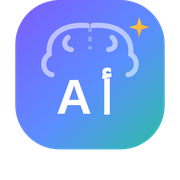
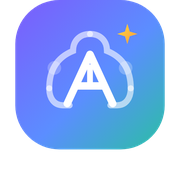
refine(brand): restore the original brain, nest أ inside the A
Per feedback: the original brain silhouette read better than the reworked
hemisphere arcs, and the monogram should place the Arabic أ *inside* the Latin
A (not beside it). Also fixes the app icon looking "incomplete" — the previous
letters sat at the bottom and got cropped in the small install-prompt render;
the monogram is now centered inside the brain, so it reads complete at every
size.

- AcademyLogo.tsx: original brain hemispheres + an outline A with أ nested in
  its triangle
- icon.svg + regenerated PNGs (192/512, maskable, apple-touch)
- opengraph-image.tsx: embeds the real logo as inline SVG (Satori-safe
  elements only)

Claude-Session: https://claude.ai/code/session_014JTUkKfyDEnv8Zh19PnRgp

Changed region(s): [[0.2222, 0.0833, 0.8333, 0.6389]]

diff --git a/components/shared/AcademyLogo.tsx b/components/shared/AcademyLogo.tsx
@@ -1,8 +1,7 @@
-// Amine Academy brand mark — a stylized brain (two hemispheres) with the
-// bilingual monogram «A» + «أ» set inside it, plus a spark accent. The Latin A
-// and Arabic alef together also read as "AI", nodding to the platform's
-// AI-driven sessions. Single source of truth: change it here and it updates
-// everywhere the component is used (landing, footer, parent portal, demo).
+// Amine Academy brand mark — the original stylized brain, with a bold outline
+// «A» in its center and the Arabic «أ» nested inside the A's triangle (bilingual
+// monogram). Single source of truth: change it here and it updates everywhere
+// the component is used (landing, footer, parent portal, demo, dashboard).
 export default function AcademyLogo({ size = 44 }: { size?: number }) {
   return (
     <svg width={size} height={size} viewBox="0 0 44 44" fill="none" xmlns="http://www.w3.org/2000/svg">
@@ -18,19 +17,22 @@ export default function AcademyLogo({ size = 44 }: { size?: number }) {
         </linearGradient>
       </defs>
       <rect width="44" height="44" rx="13" fill="url(#aaLogoBg)" />
-      {/* Brain hemispheres */}
-      <g stroke="rgba(255,255,255,0.5)" strokeWidth="1.5" fill="none" strokeLinecap="round">
-        <path d="M21.2 7.5 C13.5 7 9.5 10.5 10 16 C7.5 17.5 8 21.5 10.8 22" />
-        <path d="M22.8 7.5 C30.5 7 34.5 10.5 34 16 C36.5 17.5 36 21.5 33.2 22" />
-        <path d="M15.5 11 C13.8 12.5 14.6 14.5 16.5 14.6" />
-        <path d="M28.5 11 C30.2 12.5 29.4 14.5 27.5 14.6" />
+      {/* Brain hemispheres (the original design) */}
+      <path d="M10 26 C10 21 12 17 17 15 C17 12 19 10 22 10" stroke="rgba(255,255,255,0.6)" strokeWidth="1.8" strokeLinecap="round" fill="none" />
+      <path d="M10 26 C10 29 11.5 31 14 31 L16 31" stroke="rgba(255,255,255,0.6)" strokeWidth="1.8" strokeLinecap="round" fill="none" />
+      <circle cx="11.5" cy="20" r="2" fill="rgba(255,255,255,0.25)" />
+      <path d="M34 26 C34 21 32 17 27 15 C27 12 25 10 22 10" stroke="rgba(255,255,255,0.6)" strokeWidth="1.8" strokeLinecap="round" fill="none" />
+      <path d="M34 26 C34 29 32.5 31 30 31 L28 31" stroke="rgba(255,255,255,0.6)" strokeWidth="1.8" strokeLinecap="round" fill="none" />
+      <circle cx="32.5" cy="20" r="2" fill="rgba(255,255,255,0.25)" />
+      {/* Outline A with the Arabic أ nested inside its triangle */}
+      <g stroke="white" strokeWidth="2.2" fill="none" strokeLinecap="round" strokeLinejoin="round">
+        <path d="M15.3 30.5 L22 16 L28.7 30.5" />
+        <path d="M18 25.3 L26 25.3" />
       </g>
-      <line x1="22" y1="8" x2="22" y2="14.5" stroke="rgba(255,255,255,0.3)" strokeWidth="1" strokeDasharray="1.4 1.4" />
-      {/* Bilingual monogram — Latin A + Arabic أ */}
-      <text x="17.3" y="33.5" fontFamily="Arial, Helvetica, sans-serif" fontSize="14.5" fontWeight="900" fill="white" textAnchor="middle">A</text>
-      <text x="27" y="33.5" fontFamily="Tahoma, Arial, sans-serif" fontSize="13.5" fontWeight="900" fill="white" textAnchor="middle">أ</text>
+      <line x1="22" y1="20.4" x2="22" y2="24.6" stroke="white" strokeWidth="1.7" strokeLinecap="round" />
+      <path d="M20.8 19 L23.2 19 L22 20.6 Z" fill="white" />
       {/* Spark */}
-      <g transform="translate(33.5, 5)">
+      <g transform="translate(30, 7)">
         <path d="M3 0 L3.7 2.3 L6 3 L3.7 3.7 L3 6 L2.3 3.7 L0 3 L2.3 2.3 Z" fill="url(#aaLogoStar)" opacity="0.95" />
       </g>
     </svg>

diff --git a/app/opengraph-image.tsx b/app/opengraph-image.tsx
@@ -34,26 +34,34 @@ export default function Image() {
             border: '1px solid rgba(255,255,255,0.3)',
           }}
         >
-          {/* Brand mark — bilingual A + أ monogram on the brand gradient */}
-          <div
-            style={{
-              width: 120,
-              height: 120,
-              borderRadius: 32,
-              background: 'linear-gradient(135deg, #7C5CFC 0%, #5B8EFF 55%, #2ABFA3 100%)',
-              display: 'flex',
-              alignItems: 'center',
-              justifyContent: 'center',
-              gap: 6,
-              color: 'white',
-              fontSize: 66,
-              fontWeight: 900,
-              boxShadow: '0 8px 30px rgba(0,0,0,0.15)',
-            }}
-          >
-            <span>A</span>
-            <span>أ</span>
-          </div>
+          {/* Brand mark — the actual logo: brain with the A/أ monogram */}
+          <svg width="128" height="128" viewBox="0 0 44 44" xmlns="http://www.w3.org/2000/svg">
+            <defs>
+              <linearGradient id="ogBg" x1="0" y1="0" x2="44" y2="44" gradientUnits="userSpaceOnUse">
+                <stop offset="0%" stopColor="#7C5CFC" />
+                <stop offset="55%" stopColor="#5B8EFF" />
+                <stop offset="100%" stopColor="#2ABFA3" />
+              </linearGradient>
+              <linearGradient id="ogStar" x1="0" y1="0" x2="1" y2="1">
+                <stop offset="0%" stopColor="#FFD93D" />
+                <stop offset="100%" stopColor="#FF9A3C" />
+              </linearGradient>
+            </defs>
+            <rect width="44" height="44" rx="13" fill="url(#ogBg)" />
+            <path d="M10 26 C10 21 12 17 17 15 C17 12 19 10 22 10" stroke="rgba(255,255,255,0.6)" strokeWidth="1.8" strokeLinecap="round" fill="none" />
+            <path d="M10 26 C10 29 11.5 31 14 31 L16 31" stroke="rgba(255,255,255,0.6)" strokeWidth="1.8" strokeLinecap="round" fill="none" />
+            <circle cx="11.5" cy="20" r="2" fill="rgba(255,255,255,0.25)" />
+            <path d="M34 26 C34 21 32 17 27 15 C27 12 25 10 22 10" stroke="rgba(255,255,255,0.6)" strokeWidth="1.8" strokeLinecap="round" fill="none" />
+            <path d="M34 26 C34 29 32.5 31 30 31 L28 31" stroke="rgba(255,255,255,0.6)" strokeWidth="1.8" strokeLinecap="round" fill="none" />
+            <circle cx="32.5" cy="20" r="2" fill="rgba(255,255,255,0.25)" />
+            <path d="M15.3 30.5 L22 16 L28.7 30.5" stroke="white" strokeWidth="2.2" fill="none" strokeLinecap="round" strokeLinejoin="round" />
+            <path d="M18 25.3 L26 25.3" stroke="white" strokeWidth="2.2" fill="none" strokeLinecap="round" />
+            <path d="M22 20.4 L22 24.6" stroke="white" strokeWidth="1.7" strokeLinecap="round" fill="none" />
+            <path d="M20.8 19 L23.2 19 L22 20.6 Z" fill="white" />
+            <g transform="translate(30, 7)">
+              <path d="M3 0 L3.7 2.3 L6 3 L3.7 3.7 L3 6 L2.3 3.7 L0 3 L2.3 2.3 Z" fill="url(#ogStar)" />
+            </g>
+          </svg>
 
           {/* Title */}
           <div
